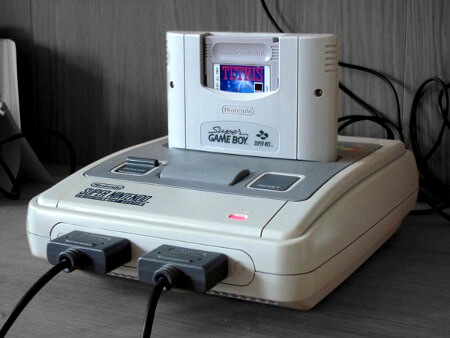
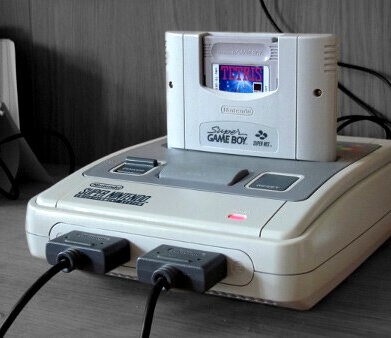
Adjust animation and imgs on peripheral slides

diff --git a/styles/modules/section-peripherals-sliders.sass b/styles/modules/section-peripherals-sliders.sass
@@ -25,18 +25,21 @@
   position: absolute
   width: 100%
   height: 100%
-  transition: transform 1s ease-in-out
+  transition: width 1s ease-in-out, opacity 0s
+  right: 0
+  top: 0
   background:
-    size: cover
+    position: right center
     repeat: no-repeat
-    position: center
+    size: auto 100%
 
 .peripherals__slider-img-0
   z-index: 30
 
 .peripherals__slider-img--position-0
   z-index: 30
-  transform: translateX(100%)
+  width: 0
+
 .peripherals__slider-img--position-1
   opacity: 0
   z-index: 20
